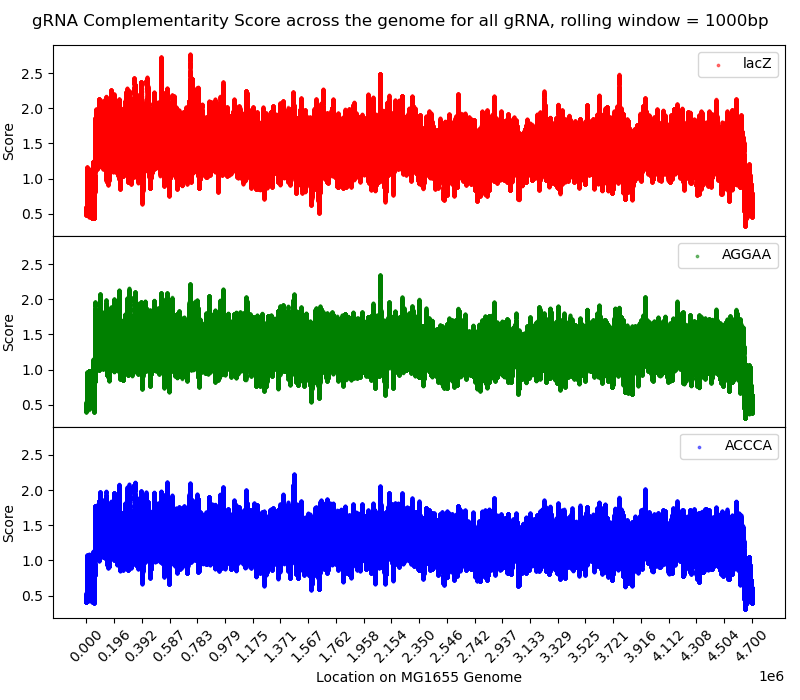
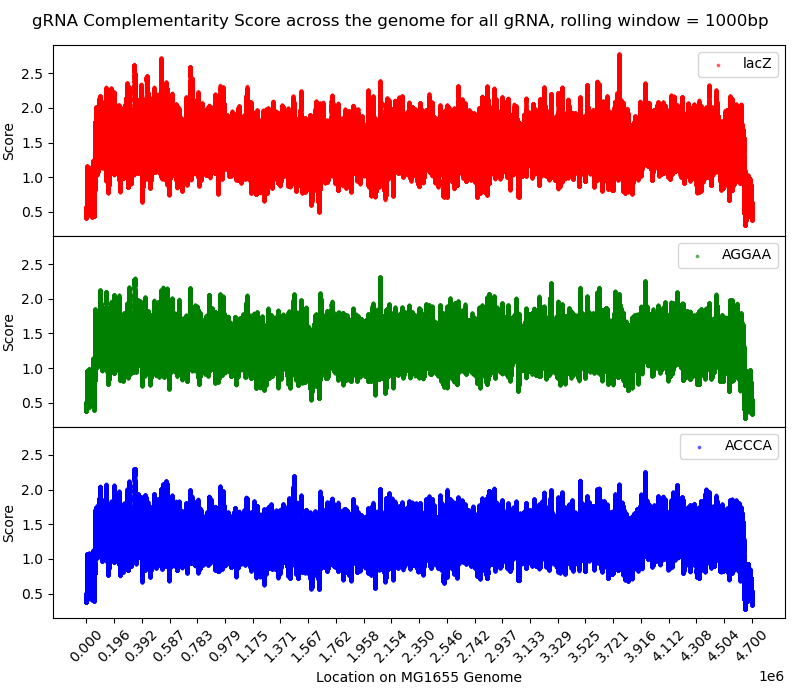
Fix minor bug in PAM deloc scheme

diff --git a/ChIPSeq_Plotting.py b/ChIPSeq_Plotting.py
@@ -203,11 +203,9 @@ if PLOT_EXPANDING_SEED:
         plt.close()
         sampleInd += 1
 
-#### Now we investigate deformability stuff
-
 ## Plot binding activity over the genome as a rolling average
 
-bindWindow = 100000
+bindWindow = 10000
 allPeaksDf = pd.concat([pd.Series(arr, name=name) for arr, name in zip(allArrs, names)],
                        axis=1)  # this will not be useful unless we use window = 1 = no RA (used in later calculations)
 # list(arr[slice]) + list(arr) copies the last bindWindow-1 elements again, so they are not wiped out by rolling function
@@ -243,7 +241,7 @@ print(f"{time.time()}: Completed All Before Score Calcs!")
 
 ## Impletment plotting of normalized sequence complementarity index and see how that varies across genome'
 
-PAM_LOCALIZATION = True
+PAM_LOCALIZATION = False
 
 allScoreDicts = list()
 for ts, name in zip(bindSites, names):
@@ -281,53 +279,53 @@ for scoreDict, name in zip(allScoreDicts, names):
                     newStart = start
                     newStop = stop
                 elif strandNum == 1:
-                    newStart = LEN_CHR-stop
-                    newStop = LEN_CHR-start
-                scoreArr[newStart:newStop] = [val + score for val in scoreArr[start:stop]]
+                    newStart = len(scoreArr)-stop
+                    newStop = len(scoreArr)-start
+                scoreArr[newStart:newStop] = [val + score for val in scoreArr[newStart:newStop]]
     allScoreArr.append(scoreArr)
 
 print(f"{time.time()}: Completed Score Calculations!")
 # first, take rolling avg
-scoreWindow = 100000
-allScoresDf = pd.concat([pd.Series(arr, name=name) for arr, name in zip(allScoreArr, names)],
-                        axis=1)  # this will not be useful unless we use window = 1 = no RA (used in later calculations)
-if scoreWindow == 1:  # if scoreWindow == 1, don't do rolling average
-    raAllScoresDf = allScoresDf
-    rstdAllScoresDf = 0 * raAllScoresDf
-else:
-    # list(arr[slice]) + list(arr) copies the last scoreWindow-1 elements again, so they are not wiped out by rolling function
-    allScoresDfExpand = pd.concat(
-        [pd.Series(list(arr[-(scoreWindow - 1):]) + list(arr), name=name) for arr, name in zip(allScoreArr, names)],
-        axis=1)
-    raAllScoresDfExpand = allScoresDfExpand.rolling(scoreWindow, axis=0).mean()
-    rstdAllScoresDfExpand = allScoresDfExpand.rolling(scoreWindow, axis=0).std()
-    raAllScoresDf = raAllScoresDfExpand.iloc[scoreWindow - 1:, :].reset_index(drop=True)
-    rstdAllScoresDf = rstdAllScoresDfExpand.iloc[scoreWindow - 1:, :].reset_index(drop=True)
+for scoreWindow in [10000]:
+    allScoresDf = pd.concat([pd.Series(arr, name=name) for arr, name in zip(allScoreArr, names)],
+                            axis=1)  # this will not be useful unless we use window = 1 = no RA (used in later calculations)
+    if scoreWindow == 1:  # if scoreWindow == 1, don't do rolling average
+        raAllScoresDf = allScoresDf
+        rstdAllScoresDf = 0 * raAllScoresDf
+    else:
+        # list(arr[slice]) + list(arr) copies the last scoreWindow-1 elements again, so they are not wiped out by rolling function
+        allScoresDfExpand = pd.concat(
+            [pd.Series(list(arr[-(scoreWindow - 1):]) + list(arr), name=name) for arr, name in zip(allScoreArr, names)],
+            axis=1)
+        raAllScoresDfExpand = allScoresDfExpand.rolling(scoreWindow, axis=0).mean()
+        rstdAllScoresDfExpand = allScoresDfExpand.rolling(scoreWindow, axis=0).std()
+        raAllScoresDf = raAllScoresDfExpand.iloc[scoreWindow - 1:, :].reset_index(drop=True)
+        rstdAllScoresDf = rstdAllScoresDfExpand.iloc[scoreWindow - 1:, :].reset_index(drop=True)
 
-print(f"{time.time()}: Completed Score Rolling Avg!")
-# then, plot
-fig, axs = plt.subplots(len(names), 1, sharex="all", sharey="all", figsize=(8, 7))
-colors = ["red", "green", "blue"]
+    print(f"{time.time()}: Completed Score Rolling Avg!")
+    # then, plot
+    fig, axs = plt.subplots(len(names), 1, sharex="all", sharey="all", figsize=(8, 7))
+    colors = ["red", "green", "blue"]
 
-for colName, ax, color in zip(raAllScoresDf.columns, axs, colors):
-    rollAvg = raAllScoresDf.loc[:, colName]
-    rollStd = rstdAllScoresDf.loc[:, colName]
+    for colName, ax, color in zip(raAllScoresDf.columns, axs, colors):
+        rollAvg = raAllScoresDf.loc[:, colName]
+        rollStd = rstdAllScoresDf.loc[:, colName]
 
-    # ax.plot(rollAvg, ".", s=5, label=colName, color=color)
-    ax.scatter(np.arange(0, len(rollAvg), 1), rollAvg, s=3, alpha=0.5, label=colName, color=color)
-    ax.legend()
-    ax.set_ylabel("Score")
-    # ax.fill_between(np.arange(0, len(rollAvg), 1), rollAvg - 0.0 * rollStd, rollAvg + 0.0 * rollStd, color=color,
-    # alpha=0.5)
+        # ax.plot(rollAvg, ".", s=5, label=colName, color=color)
+        ax.scatter(np.arange(0, len(rollAvg), 1), rollAvg, s=3, alpha=0.5, label=colName, color=color)
+        ax.legend()
+        ax.set_ylabel("Score")
+        # ax.fill_between(np.arange(0, len(rollAvg), 1), rollAvg - 0.0 * rollStd, rollAvg + 0.0 * rollStd, color=color,
+        # alpha=0.5)
 
-fig.suptitle(f"gRNA Complementarity Score across the genome for all gRNA, rolling window = {scoreWindow}bp")
-axs[-1].set_xlabel("Location on MG1655 Genome")
-plt.ylabel("Score")
-plt.xticks(range(0, LEN_CHR, (LEN_CHR) // 24), rotation=45)
-plt.tight_layout()
-plt.subplots_adjust(wspace=0, hspace=0)
-plt.savefig(f"figures/AllScoresComparisonRA{scoreWindow}{'DELOC' if not PAM_LOCALIZATION else ''}")
-plt.close()
+    fig.suptitle(f"gRNA Complementarity Score across the genome for all gRNA, rolling window = {scoreWindow}bp")
+    axs[-1].set_xlabel("Location on MG1655 Genome")
+    plt.ylabel("Score")
+    plt.xticks(range(0, LEN_CHR, (LEN_CHR) // 24), rotation=45)
+    plt.tight_layout()
+    plt.subplots_adjust(wspace=0, hspace=0)
+    plt.savefig(f"figures/AllScoresComparisonRA{scoreWindow}{'DELOC' if not PAM_LOCALIZATION else ''}")
+    plt.close()
 
 ## Plot complementarity score vs binding activity side by side to see if there is a relation
 
@@ -361,7 +359,7 @@ for name in names:
 
 # Same as above, but plot one against the other
 USE_ROLLAVG = True
-ZOOM = True
+ZOOM = False
 
 for name in names:
     if USE_ROLLAVG:
@@ -386,10 +384,10 @@ for name in names:
     if scoreWindow != bindWindow and USE_ROLLAVG:
         raise Exception(f"Score rolling avg window {scoreWindow} is not equal to bind window {bindWindow}.")
 
-    plt.scatter(x=score, y=bind, s=3, alpha=0.5)
+    plt.scatter(x=score, y=bind, s=1, alpha=0.5)
     plt.xlabel("Comp Score")
     plt.ylabel("Binding Intensity")
-    if ZOOM:
+    if ZOOM and USE_ROLLAVG:
         plt.xlim(left=0.35 if PAM_LOCALIZATION else 1.2)
 
     plt.tight_layout()

diff --git a/main.py b/main.py
@@ -1,3 +1,5 @@
+import matplotlib.pyplot as plt
+import numpy as np
 from Bio import Entrez
 from Bio import SeqIO
 from Bio.Seq import Seq
@@ -203,17 +205,30 @@ class GenomicTgtSite:
         return context5DeformAvg, context3DeformAvg
 
 
-allTs = list()
+allPAMIndxs = list()
 
 for strandNum, strand in enumerate(refGenome):
     for val in re.finditer(r".GG", str(strand), overlapped=True):
-        PAMLoc = (strandNum, val.span()[0], val.span()[1])
-        ts = GenomicTgtSite(refGenome, PAMLoc, contextLen=500)
-        allTs.append(ts)
+        allPAMIndxs.append(val.span()[0] if strandNum == 0 else len(strand) - 1 - val.span()[0])
 
-with open("Rostain Supp Info/MG1655 Referance Genome/allTgtSites", "wb") as f:
-    dill.dump(allTs, f)
+plt.figure()
+plt.hist(allPAMIndxs, bins=1000)
 
-# TODO: pickle allTs with dill
+allPAMScores = np.zeros(len(refGenome[0]))
+for i in allPAMIndxs:
+    allPAMScores[i] += 1
+
+scoreWindow = 2
+allScoresDfExpand = pd.Series(list(allPAMScores[-(scoreWindow - 1):]) + list(allPAMScores), name="Markers at all PAMs")
+raAllScoresExpand = allScoresDfExpand.rolling(scoreWindow, axis=0).mean()
+rstdAllScoresExpand = allScoresDfExpand.rolling(scoreWindow, axis=0).std()
+raAllScores = raAllScoresExpand.iloc[scoreWindow - 1:].reset_index(drop=True)
+rstdAllScores = rstdAllScoresExpand.iloc[scoreWindow - 1:].reset_index(drop=True)
+
+plt.figure()
+plt.plot(raAllScores)
+plt.title(scoreWindow)
+plt.show()
+
 
 # TODO: calculating Tm could be a good control
